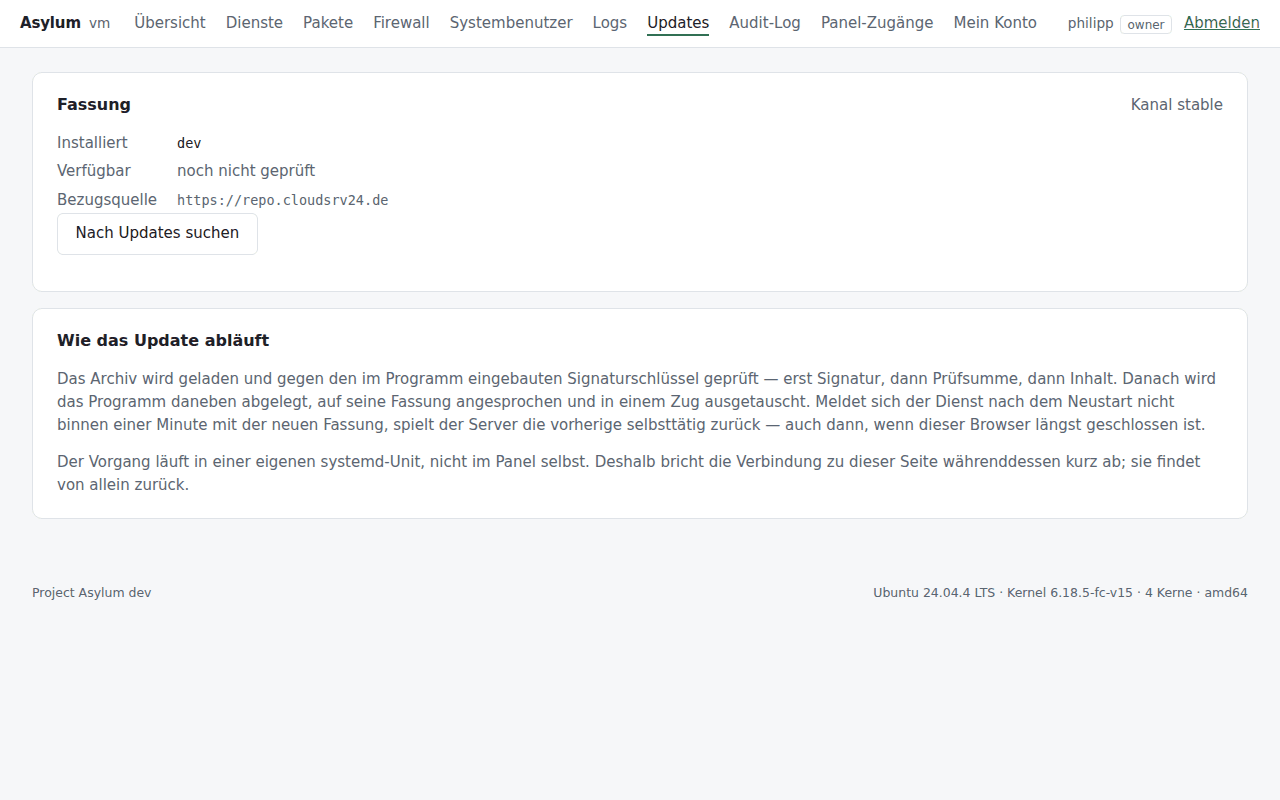
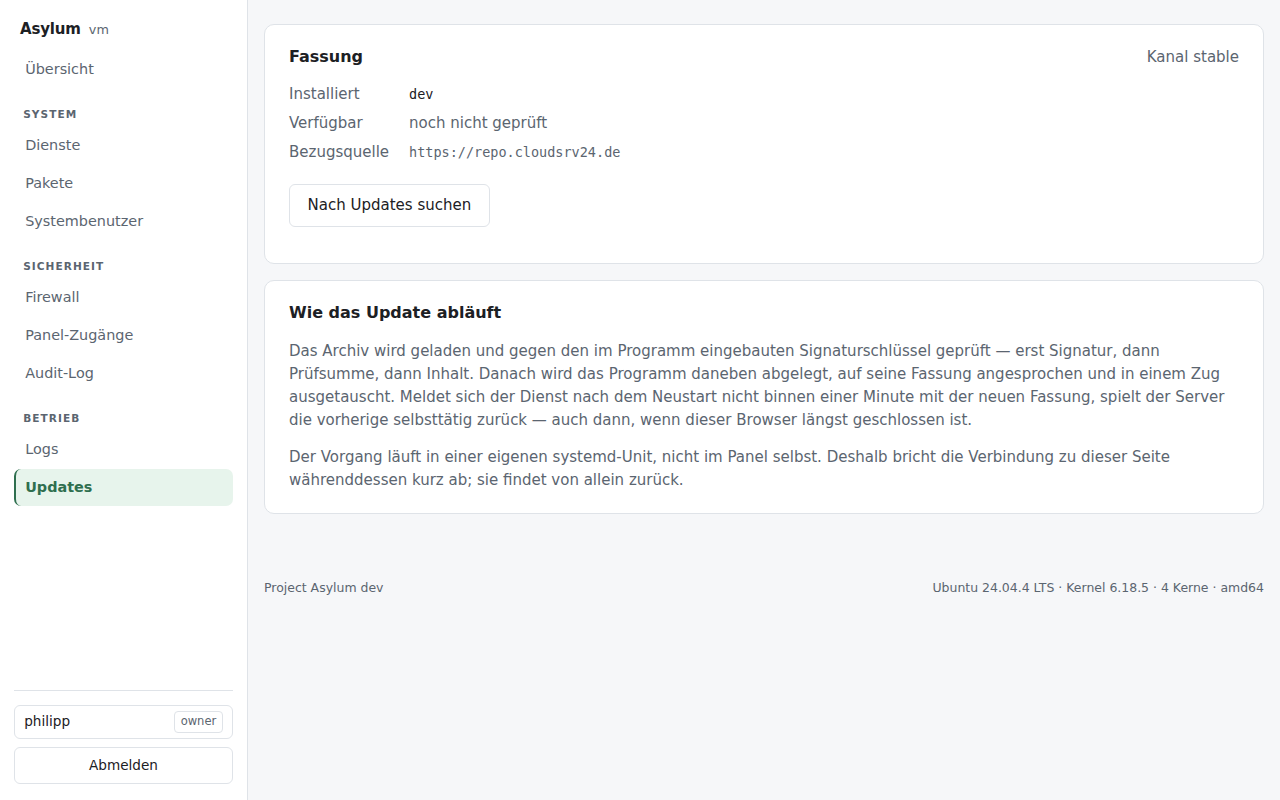
docs(readme): Seitenleiste in Bild und Text nachziehen
Die Bildschirmfotos zeigten noch die alte, waagerechte Topbar. Alle sieben
im README neu aufgenommen, jetzt mit der Seitenleiste und ihren Gruppen.

- README: Abschnitt "So sieht es aus" beschreibt die Seitenleiste und das
  Einklappen auf dem Telefon; die Bildunterschrift nennt den reproduzierbaren
  Weg der Aufnahme statt der alten Container-Einschränkung; Statuszeile auf
  "Freigabekandidaten auf dem Weg zu 0.1.0" gezogen.
- CHANGELOG: Navigations-Umbau und die zwei UI-Fixes unter "Unveröffentlicht".
- TestDumpSeiten rendert jetzt alle README-Seiten mit repräsentativen
  Beispieldaten (Dienste, Firewall, Systembenutzer, Audit, Konto) und einem
  gestellten Metrik-Snapshot für die Übersicht — bewusst nicht die echte
  Messung der Entwicklungsmaschine, deren Prozessnamen sonst ins Bild gerieten.

Claude-Session: https://claude.ai/code/session_01Xk3su4EqjKatZXMTb486Zo

diff --git a/internal/httpd/dump_test.go b/internal/httpd/dump_test.go
@@ -1,78 +1,154 @@
 package httpd
 
 import (
+	"context"
 	"fmt"
 	"os"
 	"path/filepath"
 	"strings"
 	"testing"
+	"time"
 
+	"github.com/philf90/asylum/internal/auth"
+	"github.com/philf90/asylum/internal/metrics"
 	"github.com/philf90/asylum/internal/privops"
 	"github.com/philf90/asylum/internal/store"
 )
 
 // TestDumpSeiten schreibt gerenderte Seiten mit reichhaltigen Testdaten in ein
-// Verzeichnis, damit sich das Layout im Browser vermessen lässt. Ohne
-// ASYLUM_DUMP_DIR passiert nichts.
+// Verzeichnis, damit sich das Layout im Browser vermessen und für das README
+// fotografieren lässt. Ohne ASYLUM_DUMP_DIR passiert nichts.
+//
+// Die Daten sind repräsentative Beispiele, kein Abzug eines echten Servers:
+// Die Entwicklungsumgebung hat kein systemd, weshalb Dienste, Pakete und
+// Firewall hier über den einspeisbaren Runner kommen. Die Übersicht dagegen
+// zeigt echte /proc-Werte dieser Maschine.
 func TestDumpSeiten(t *testing.T) {
 	ziel := os.Getenv("ASYLUM_DUMP_DIR")
 	if ziel == "" {
 		t.Skip("ohne ASYLUM_DUMP_DIR nichts zu tun")
 	}
+	ctx := context.Background()
 
 	s, ops := newSystemServer(t)
 	user := addUser(t, s, "philipp", store.RoleOwner)
 	cookie, _ := login(t, s, user)
 
+	// --- Dienste: eine repräsentative Auswahl statt zweier Zeilen ---
 	ops.mu.Lock()
 	ops.services = nil
-	beschreibungen := []string{
-		"Load AppArmor profiles",
-		"Process error reports when automatic reporting is enabled",
-		"automatic crash report generation",
-		"Daily apt upgrade and clean activities",
-		"Daily apt download activities",
-		"Project Asylum — Control Panel",
-		"auditd.service",
-		"Availability of block devices",
-		"Cloud-init: Local Stage (pre-network)",
-		"Regular background program processing daemon",
-		"Getty on tty1",
-		"D-Bus System Message Bus",
+	dienste := []privops.Service{
+		{Unit: "asylumd.service", Description: "Project Asylum — Control Panel", Active: "active", Sub: "running", Enabled: "enabled"},
+		{Unit: "ssh.service", Description: "OpenSSH server daemon", Active: "active", Sub: "running", Enabled: "enabled"},
+		{Unit: "nginx.service", Description: "A high performance web server", Active: "active", Sub: "running", Enabled: "enabled"},
+		{Unit: "cron.service", Description: "Regular background program processing daemon", Active: "active", Sub: "running", Enabled: "enabled"},
+		{Unit: "systemd-journald.service", Description: "Journal Service", Active: "active", Sub: "running", Enabled: "static"},
+		{Unit: "apparmor.service", Description: "Load AppArmor profiles", Active: "active", Sub: "exited", Enabled: "enabled"},
+		{Unit: "apt-daily.service", Description: "Daily apt download activities", Active: "inactive", Sub: "dead", Enabled: "static"},
+		{Unit: "postgresql.service", Description: "PostgreSQL RDBMS", Active: "failed", Sub: "failed", Enabled: "enabled"},
 	}
-	namen := []string{
-		"apparmor", "apport-autoreport", "apport", "apt-daily-upgrade",
-		"apt-daily", "asylumd", "auditd", "blk-availability",
-		"cloud-init-local", "cron", "getty@tty1", "dbus",
-	}
-	for i, n := range namen {
-		aktiv, sub, enabled := "active", "exited", "enabled"
-		switch i % 3 {
-		case 1:
-			aktiv, sub, enabled = "inactive", "dead", "static"
-		case 2:
-			aktiv, sub, enabled = "active", "running", "enabled"
-		}
-		ops.services = append(ops.services, privops.Service{
-			Unit: n + ".service", Active: aktiv, Sub: sub,
-			Enabled: enabled, Description: beschreibungen[i],
-		})
-	}
+	ops.services = append(ops.services, dienste...)
+
 	ops.firewall = privops.FirewallState{
-		Backend: privops.BackendUFW, Installed: true, Managed: true,
-		Rules: []privops.FirewallRule{{Port: 80, Protocol: "tcp", Comment: "HTTP"}},
+		Backend: privops.BackendUFW, Installed: true, Active: true, Managed: true,
+		Rules: []privops.FirewallRule{
+			{Port: 22, Protocol: "tcp", Comment: "SSH"},
+			{Port: 443, Protocol: "tcp", Comment: "HTTPS"},
+			{Port: 8443, Protocol: "tcp", Comment: "Panel"},
+		},
+	}
+
+	ops.sysUsers = []privops.SystemUser{
+		{Name: "root", UID: 0, Home: "/root", Shell: "/bin/bash", HasShell: true, Protected: true, SSHKeys: 1},
+		{Name: "philipp", UID: 1000, Home: "/home/philipp", Shell: "/bin/bash", HasShell: true, SSHKeys: 2},
+		{Name: "deploy", UID: 1001, Home: "/home/deploy", Shell: "/bin/bash", HasShell: true, SSHKeys: 1},
+		{Name: "www-data", UID: 33, System: true},
+		{Name: "postgres", UID: 114, Home: "/var/lib/postgresql", System: true},
 	}
 	ops.mu.Unlock()
 
-	for _, pfad := range []string{"/services", "/firewall", "/system-users", "/packages"} {
-		rec := get(t, s, pfad, cookie)
-		name := filepath.Base(pfad) + ".html"
-		body := rec.Body.String()
-		// Für das Rendern von der Platte: Stylesheet daneben statt unter /static.
-		body = strings.ReplaceAll(body, "/static/app.css", "app.css")
-		if err := os.WriteFile(filepath.Join(ziel, name), []byte(body), 0o600); err != nil {
+	// --- Konto: Wiederherstellungscodes und mehrere Sitzungen ---
+	if _, hashes, err := auth.NewRecoveryCodes(); err != nil {
+		t.Fatal(err)
+	} else if err := s.db.ReplaceRecoveryCodes(ctx, user.ID, hashes); err != nil {
+		t.Fatal(err)
+	}
+
+	now := time.Now()
+	for _, se := range []store.Session{
+		{ID: "dumptablet0000", UserID: user.ID, CSRFToken: "x", IP: "192.168.1.42", UserAgent: "Firefox 128 auf Android", CreatedAt: now.Add(-30 * time.Hour), LastSeenAt: now.Add(-2 * time.Hour), ExpiresAt: now.Add(time.Hour)},
+		{ID: "dumplaptop0000", UserID: user.ID, CSRFToken: "y", IP: "10.0.0.9", UserAgent: "Chrome 140 auf macOS", CreatedAt: now.Add(-3 * time.Hour), LastSeenAt: now.Add(-11 * time.Minute), ExpiresAt: now.Add(time.Hour)},
+	} {
+		if err := s.db.CreateSession(ctx, se); err != nil {
 			t.Fatal(err)
 		}
-		fmt.Println("geschrieben:", name, len(body), "Bytes")
+	}
+
+	// --- Audit: ein paar Einträge mit unterschiedlichem Ausgang ---
+	for _, a := range []store.AuditEntry{
+		{Actor: "philipp", Action: "login.success", Result: store.ResultOK, IP: "192.168.1.42"},
+		{Actor: "philipp", Action: "firewall.rule.add", Target: "443/tcp", Result: store.ResultOK, IP: "192.168.1.42"},
+		{Actor: "philipp", Action: "service.restart", Target: "nginx.service", Result: store.ResultOK, IP: "10.0.0.9"},
+		{Actor: "deploy", Action: "login.failed", Result: store.ResultDenied, IP: "203.0.113.7"},
+		{Actor: "philipp", Action: "package.upgrade", Target: "nur Sicherheit", Result: store.ResultOK, IP: "10.0.0.9"},
+	} {
+		if err := s.db.AppendAudit(ctx, a); err != nil {
+			t.Fatal(err)
+		}
+	}
+
+	// --- Übersicht: ein repräsentativer Snapshot ---
+	//
+	// Bewusst nicht s.sampler.Sample(): Die echte Messung dieser
+	// Entwicklungsmaschine trüge deren Prozess- und Dateisystemnamen ins
+	// Bildschirmfoto. Die Zahlen hier sind erfundene, aber plausible Werte
+	// eines kleinen Servers.
+	const giB = 1 << 30
+	s.setLatest(metrics.Snapshot{
+		At:         now,
+		CPU:        metrics.CPU{Total: 6.4, PerCore: []float64{7.1, 5.0, 8.2, 5.3}, IOWait: 0.4, Steal: 0.0},
+		Memory:     metrics.Memory{Total: 4 * giB, Used: 1288 * giB / 1024, UsedPct: 30.1, Available: 4*giB - 1288*giB/1024, SwapTotal: 2 * giB, SwapUsed: 0},
+		Load:       [3]float64{0.18, 0.12, 0.09},
+		Uptime:     8*24*time.Hour + 4*time.Hour,
+		UptimeText: "8 Tage, 4 Std",
+		Filesystems: []metrics.Filesystem{
+			{Mount: "/", Device: "/dev/vda1", Type: "ext4", Total: 40 * giB, Used: 96 * giB / 10, UsedPct: 24.0, InodesPct: 3.2},
+			{Mount: "/boot", Device: "/dev/vda2", Type: "ext4", Total: 1 * giB, Used: 36 * giB / 100, UsedPct: 36.4, InodesPct: 0.4},
+		},
+		Interfaces: []metrics.Interface{
+			{Name: "eth0", Addrs: []string{"203.0.113.10/24", "2001:db8::10/64"}, RXRate: 12480, TXRate: 3620, RXBytes: 4823449600, TXBytes: 1290551296},
+		},
+		TopProcesses: []metrics.Process{
+			{PID: 612, Name: "postgres", User: "postgres", CPUPct: 1.2, RSS: 268 * giB / 1024, RSSPct: 6.4},
+			{PID: 388, Name: "asylumd", User: "root", CPUPct: 0.3, RSS: 16 * giB / 1024, RSSPct: 0.4},
+			{PID: 701, Name: "nginx", User: "www-data", CPUPct: 0.1, RSS: 12 * giB / 1024, RSSPct: 0.3},
+			{PID: 655, Name: "redis-server", User: "redis", CPUPct: 0.4, RSS: 9 * giB / 1024, RSSPct: 0.2},
+			{PID: 240, Name: "systemd-journald", User: "root", CPUPct: 0.0, RSS: 11 * giB / 1024, RSSPct: 0.3},
+			{PID: 421, Name: "sshd", User: "root", CPUPct: 0.0, RSS: 7 * giB / 1024, RSSPct: 0.2},
+		},
+	})
+
+	seiten := []struct{ pfad, name string }{
+		{"/", "uebersicht.html"},
+		{"/services", "dienste.html"},
+		{"/firewall", "firewall.html"},
+		{"/system-users", "system-users.html"},
+		{"/packages", "packages.html"},
+		{"/logs", "logs.html"},
+		{"/update", "updates.html"},
+		{"/audit", "audit.html"},
+		{"/account", "konto.html"},
+	}
+	for _, seite := range seiten {
+		rec := get(t, s, seite.pfad, cookie)
+		if rec.Code != 200 {
+			t.Fatalf("%s: Status %d", seite.pfad, rec.Code)
+		}
+		// Für das Rendern von der Platte: Stylesheet daneben statt unter /static.
+		body := strings.ReplaceAll(rec.Body.String(), "/static/app.css", "app.css")
+		if err := os.WriteFile(filepath.Join(ziel, seite.name), []byte(body), 0o600); err != nil {
+			t.Fatal(err)
+		}
+		fmt.Println("geschrieben:", seite.name, len(body), "Bytes")
 	}
 }

diff --git a/README.md b/README.md
@@ -7,11 +7,13 @@ Ein schlankes, ressourcenschonendes Control Panel für Linux-Server (primär Ubu
 *Asylum* im Sinne von Zuflucht: der Ort, an dem ein Server sicher, überschaubar und
 beherrschbar bleibt.
 
-> **Status: M3 — Update-Mechanik.** Installation, TLS, Release-Pfad,
-> Zwei-Faktor-Anmeldung, Rollen, Audit-Log, Live-Dashboard, die Verwaltung von
-> Diensten, Paketen, Firewall, Systembenutzern und Logs sowie das signierte
-> Selbstupdate mit Healthcheck und selbsttätigem Rollback stehen. Als Nächstes
-> folgt M4: Dokumentation, `SECURITY.md`, externer Review — die Public Beta.
+> **Status: Freigabekandidaten auf dem Weg zu 0.1.0.** Installation, TLS,
+> Release-Pfad, Zwei-Faktor-Anmeldung, Rollen, Audit-Log, Live-Dashboard, die
+> Verwaltung von Diensten, Paketen, Firewall, Systembenutzern und Logs sowie das
+> signierte Selbstupdate mit Healthcheck und selbsttätigem Rollback stehen
+> (M0–M4). Die Navigation ist eine nach System, Sicherheit und Betrieb
+> gruppierte Seitenleiste. Offen bis 0.1.0: Bildschirmfotos von einem echten
+> Server, externer Sicherheits-Review, der erste Tag ohne Bindestrich.
 
 ## Zielbild
 
@@ -37,6 +39,10 @@ Zielserver.
 
 ## So sieht es aus
 
+Links eine Seitenleiste, in der die Punkte nach **System**, **Sicherheit** und
+**Betrieb** gruppiert sind; der Projektname führt zur Übersicht, der eigene Name
+unten aufs Profil. Auf schmalen Bildschirmen klappt sie zu einer Kopfzeile ein.
+
 Die Übersicht: Auslastung, Dateisysteme, Netzwerk und die größten Prozesse, alle
 zwei Sekunden über einen Live-Kanal aktualisiert.
 
@@ -53,17 +59,20 @@ hinterlässt sonst keine Spur, die dem Betroffenen auffiele.
 
 ![Konto](docs/bilder/konto.png)
 
-Auf dem Telefon wird aus jeder Tabellenzeile eine Karte — ein Server-Panel wird
-genau dann gebraucht, wenn man nicht am Schreibtisch sitzt.
+Auf dem Telefon klappt die Seitenleiste zu einer Kopfzeile ein, und aus jeder
+Tabellenzeile wird eine Karte — ein Server-Panel wird genau dann gebraucht, wenn
+man nicht am Schreibtisch sitzt.
 
 <img src="docs/bilder/schmal.png" alt="Systembenutzer auf einem Telefon" width="320">
 
 Weitere Ansichten: [Dienste](docs/bilder/dienste.png) ·
 [Firewall](docs/bilder/firewall.png) · [Audit-Log](docs/bilder/audit.png)
 
-> Die Bilder stammen aus einem Container ohne systemd — Dienste, Pakete und
-> Firewall zeigen dort ihre Fehlerbehandlung statt echter Daten. Auf einem
-> Server sieht das entsprechend voller aus.
+> Die Bilder entstehen reproduzierbar aus der Anwendung selbst
+> (`ASYLUM_DUMP_DIR=… go test ./internal/httpd -run TestDumpSeiten`), mit
+> repräsentativen Beispieldaten: Dienste, Pakete, Firewall und Systembenutzer
+> über den einspeisbaren Runner, die Übersicht aus einem gestellten Snapshot.
+> Bildschirmfotos von einem echten Server unter systemd stehen für 0.1.0 noch aus.
 
 ## Entwicklung
 

diff --git a/CHANGELOG.md b/CHANGELOG.md
@@ -46,6 +46,18 @@ nicht als Release getaggt.
 
 ### Geändert
 
+- **Die Navigation ist eine Seitenleiste.** Statt zehn Punkten in einer Zeile
+  stehen sie senkrecht und nach **System**, **Sicherheit** und **Betrieb**
+  gruppiert; der eigene Zugang und das Abmelden sitzen unten fest. Der Menüpunkt
+  „Mein Konto" entfällt — der Benutzername in der Leiste ist der Weg aufs Profil,
+  der Projektname der Weg zur Übersicht. Schmal klappt die Leiste zu einer
+  Kopfzeile ein. Der Grund ist Platz: Zehn Punkte in einer Zeile waren schon
+  knapp, die geplanten Module würden sie sprengen.
+- **Such- und Filterfelder unter „Dienste" und „Logs" sind gestaltet.** Sie sind
+  `<input type="search">`; die Regel für Eingabefelder kannte diesen Typ nicht,
+  sodass der Browser sie in seinem eigenen Stil zeichnete.
+- **Der Knopf „Nach Updates suchen" hat wieder Abstand** zur Bezugsquelle
+  darüber; eine Definitionsliste trägt keinen Außenabstand nach unten.
 - **Der schmale Modus beginnt bei 900 statt 600 Pixeln** — dieselbe Grenze wie
   für die Navigation. Dazwischen stand sonst eine fünfspaltige Tabelle mit
   umbrechendem Text; bei 768 Pixeln schwankten die Zeilenhöhen um 75 Pixel.
